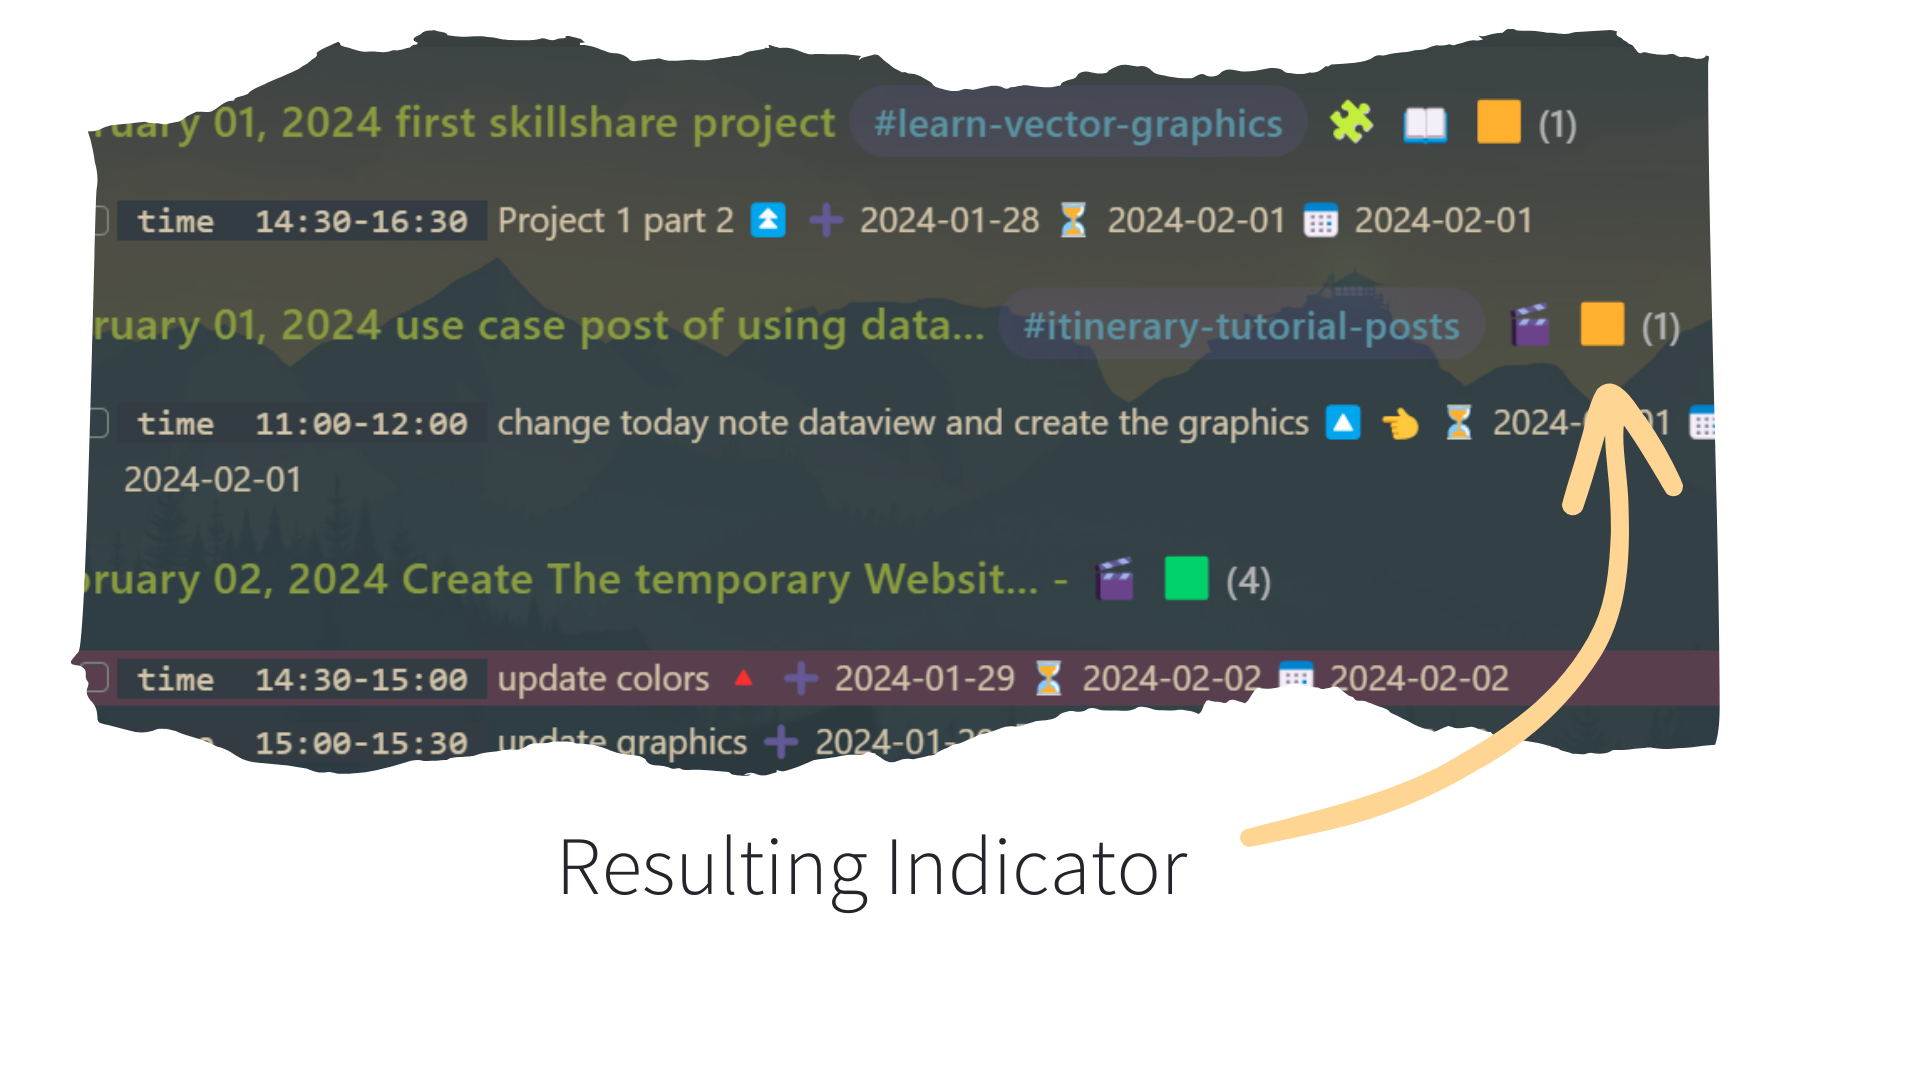
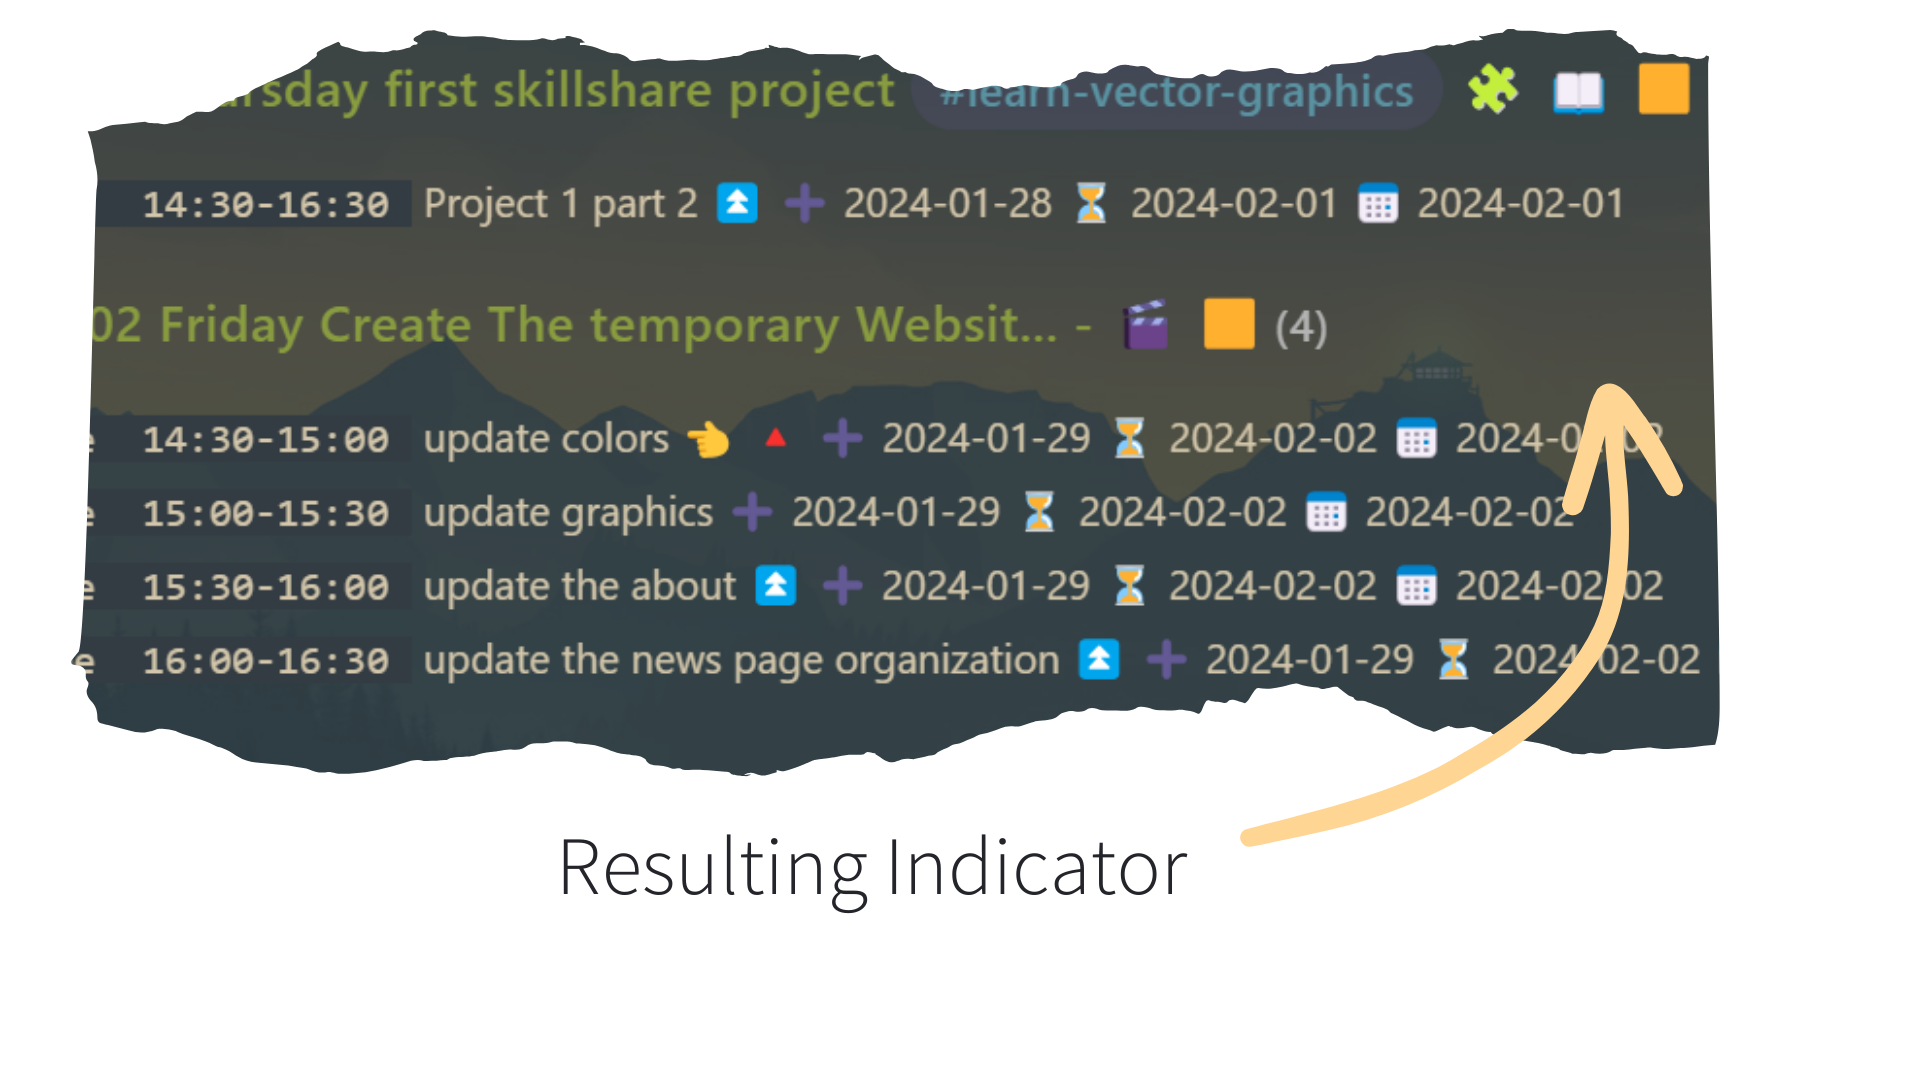
update literals post

Changed region(s): [[0.0312, 0.2444, 0.9062, 0.7028], [0.0312, 0.0611, 0.9062, 0.2444]]

diff --git a/_site/2024/02/02/They-Are-Called-Dataview-Literals.html b/_site/2024/02/02/They-Are-Called-Dataview-Literals.html
@@ -200,8 +200,9 @@ So first, I list only the tasks that are due before or at the <strong>note’s d
 <div class="language-plaintext highlighter-rouge"><div class="highlight"><pre class="highlight"><code>```dataview
 task from "Execute/Projects" where !completed 
 and due &lt;= date(this.file.name)
-sort time asc
-group by  due +" " + truncate(substring(file.name,4),30)+" "+file.tags[0]+ choice(file.frontmatter.status[0]="progress"," 🧩","") +
+sort time  asc
+sort due asc
+group by  dateformat(due,"yyyy-MM-dd EEEE") +" " + truncate(substring(file.name,4),30)+" "+file.tags[0]+ choice(file.frontmatter.status[0]="progress"," 🧩","") +
 choice(contains(file.folder,"Support")," 🧰",choice(contains(file.folder,"Action")," 🎬"," 📖"))+" "+
 choice(date(today)-due&gt;=dur("7 days"),"🟥", choice( date(today)-due&gt;=dur("3 days")  ,"🟧",choice(date(today)-due&gt;=dur("1 days") ,"🟨", "🟩" )  ))
 ```

diff --git a/_posts/2024-02-02-They Are Called Dataview Literals.md b/_posts/2024-02-02-They Are Called Dataview Literals.md
@@ -80,8 +80,9 @@ Here is the entire  **Dataview query** that I am using right now:
 ```dataview
 task from "Execute/Projects" where !completed 
 and due <= date(this.file.name)
-sort time asc
-group by  due +" " + truncate(substring(file.name,4),30)+" "+file.tags[0]+ choice(file.frontmatter.status[0]="progress"," 🧩","") +
+sort time  asc
+sort due asc
+group by  dateformat(due,"yyyy-MM-dd EEEE") +" " + truncate(substring(file.name,4),30)+" "+file.tags[0]+ choice(file.frontmatter.status[0]="progress"," 🧩","") +
 choice(contains(file.folder,"Support")," 🧰",choice(contains(file.folder,"Action")," 🎬"," 📖"))+" "+
 choice(date(today)-due>=dur("7 days"),"🟥", choice( date(today)-due>=dur("3 days")  ,"🟧",choice(date(today)-due>=dur("1 days") ,"🟨", "🟩" )  ))
 ```
